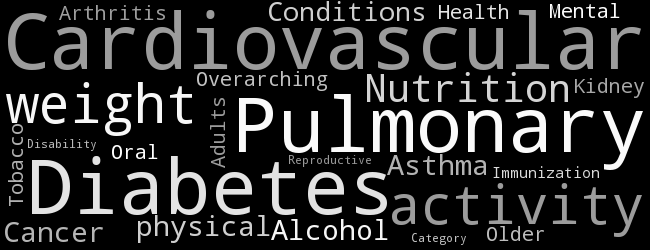
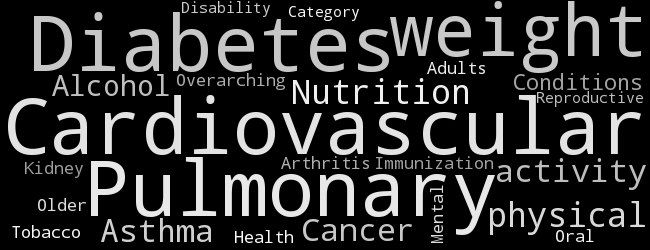
Fixed math for colerazation function

diff --git a/First.py b/First.py
@@ -1,130 +1,37 @@
-import csv
 import os
-#from scipy.misc import imread
-from wordcloud import WordCloud, STOPWORDS
-import matplotlib.pyplot as plt
-import random
 import webbrowser
-from PIL import Image
+import csv
 
+import Definitions as dfi
 
-dates=[]
-datesDict={}
-states=[]
-statesDict={}
-catagory=[]
-catagoryDict={}
+def main():
+    dates=[]
+    datesDict={}
+    states=[]
+    statesDict={}
+    catagory=[]
+    catagoryDict={}
 
-
-def grey_color_func(word, font_size, position, orientation, random_state=None, **kwargs):
-    return "hsl(0, 0%%, %d%%)" % random.randint(60, 100)
-
-
-STOPWORDS.add("chronic")
-STOPWORDS.add("disease")
-STOPWORDS.add("obstructive")
-STOPWORDS.add("status")
-#cloud1_coloring = imread(os.path.join(d, "CloudColor.png")).read()
-#sorts and adds and creates dict of catagories without duplicates
-def classify(origional, new):
-    origional = sorted([i.lower() for i in origional])
-    for i in range(2,len(origional)-1):
-        if origional[i] != origional[i-1] and origional[i] != "category" and origional[i] != "locationabbr":
-            new[origional[i]] = 0
-#counts amount of each catagory and adds number to corresponding list key
-def count(list, dict):
-    list = sorted([i.lower() for i in list])
-    leng = len(dict)
-    for i in list:
-        if i in dict:
-            dict[i] +=1
-
-classify(catagory, catagoryDict)
-classify(dates, datesDict)
-classify(states, statesDict)
-count(catagory, catagoryDict)
-count(dates, datesDict)
-count(states, statesDict)
-#end of organizing lists and dictionaries ######################################################
-
-#wordcloud stuff ##############################################################
-with open('U.S._Chronic_Disease_Indicators__CDI_.csv', newline='') as f:
-    reader = csv.reader(f)
-    for row in reader:
-        dates.append(row[0])
-        states.append(row[1])
-        catagory.append(row[3])
-
-##writes origional catagory list to text file
-d = os.path.dirname(__file__)
-file = open("catagory.txt", 'w')
-for item in catagory:
-    file.write("%s\n" % item)
-thefile = open(os.path.join(d, "catagory.txt")).read()
-
-# generate word cloud
-wordcloud = WordCloud(stopwords=STOPWORDS, background_color="black", width = 650, height = 250).generate_from_text(thefile)
-
-#### show wordcloud ####################
-wordcloud.recolor(color_func=grey_color_func, random_state=3)
-wordcloud.to_file("wordcloud.png")
-
-#End of wordcloud###################################################
-
-
-def convert(oldMin, oldMax, oldValue):
-    oldRange = (oldMax - oldMin)
-    newValue = (((oldValue - oldMin) * 255) / oldRange) + 0
-    return newValue
-
-def colorize(pixstart, pixend, domain, amounts, catagories):
-    local = {}
-    classify(catagories, local)
     with open('U.S._Chronic_Disease_Indicators__CDI_.csv', newline='') as f:
         reader = csv.reader(f)
         for row in reader:
-            if (row[1] == domain):
-                local[row[3].lower] += 1
+            dates.append(row[0])
+            states.append(row[1])
+            catagory.append(row[3])
 
-    for i in local:
-        print (i + ": " + str(local[i]))
+    dfi.classify(catagory, catagoryDict)
+    dfi.classify(dates, datesDict)
+    dfi.classify(states, statesDict)
+    dfi.count(catagory, catagoryDict)
+    dfi.count(dates, datesDict)
+    dfi.count(states, statesDict)
 
-    newList = []
-    for i in local:
-        newList.append(i)
 
-    oldMin = newList[0]
-    newMax = newList[0]
-    for i in newList:
-        if (i < oldMin):
-            oldMin = i
-        if (i > oldMax):
-            oldMax = i
+    dfi.wordcloud(catagory)
+    dfi.colorize("al", catagory)
 
-    convert(oldMin, oldMax, oldValue)
+    #opens html file
+    webbrowser.open("htmlthing.html")
 
-    rgb = (255,255,255)
-    res = (800,300)
-    newimage = Image.new("RGB",res,rgb)
-    newImageData = newimage.load()
-
-    for x in range(pixstart,pixend):
-        for y in range(0,300):
-            newImageData[x,y] = (255, int(num),int(num))
-    newimage.save("colortest.png")
-
-########################################
-
-#opens html file
-webbrowser.open("htmlthing.html")
-
-#prints info
-print ("")
-for i in catagoryDict:
-    print (i + ": " + str(catagoryDict[i]))
-print("")
-for i in statesDict:
-    print (i + ": " + str(statesDict[i]))
-print("")
-for i in datesDict:
-    print (i + ": " + str(datesDict[i]))
+if __name__ == "__main__":
+    main();

diff --git a/Definitions.py b/Definitions.py
@@ -1,0 +1,124 @@
+import csv
+import os
+#from scipy.misc import imread
+from wordcloud import WordCloud, STOPWORDS
+import matplotlib.pyplot as plt
+import random
+from PIL import Image
+
+
+#sorts, adds, and creates dict of catagories without duplicates
+def classify(origional, new):
+    origional = sorted([i.lower() for i in origional])
+    for i in range(2,len(origional)-1):
+        if origional[i] != origional[i-1] and origional[i] != "category" and origional[i] != "locationabbr":
+            new[origional[i]] = 0
+
+
+#counts amount of each catagory and adds number to corresponding list key
+def count(listi, dicti):
+    listi = sorted([i.lower() for i in listi])
+    leng = len(dicti)
+    for i in listi:
+        if i in dicti:
+            dicti[i] +=1
+
+
+#creates color pallette of wordcloud
+def grey_color_func(word, font_size, position, orientation, random_state=None, **kwargs):
+    return "hsl(0, 0%%, %d%%)" % random.randint(60, 100)
+
+
+#craetes wordcloud and saves it to an image
+def wordcloud(wordSource):
+    ##writes origional catagory list to text file
+    d = os.path.dirname(__file__)
+    file = open("catagory.txt", 'w')
+    for item in wordSource:
+        file.write("%s\n" % item)
+    thefile = open(os.path.join(d, "catagory.txt")).read()
+
+    #adds words to exclude
+    STOPWORDS.add("chronic")
+    STOPWORDS.add("disease")
+    STOPWORDS.add("obstructive")
+    STOPWORDS.add("status")
+
+    # generate word cloud
+    wordcloud = WordCloud(stopwords=STOPWORDS,
+        background_color="black",
+        width = 650,
+        height = 250).generate_from_text(thefile)
+
+    #re-colers and saves wordcloud as png
+    wordcloud.recolor(color_func=grey_color_func, random_state=3)
+    wordcloud.to_file("wordcloud.png")
+
+    #cloud1_coloring = imread(os.path.join(d, "CloudColor.png")).read()
+
+
+#converts numbers to range of 0-255 for rgb
+def convert(oldMin, oldMax, oldValue):
+    oldRange = (oldMax - oldMin)
+    newValue = (((oldValue - oldMin) * 255) / oldRange) + 0
+    return newValue
+
+
+#uses values from convert() to generate the hue of a specified colorize
+#saves to image
+def colorize(domain, catagories):
+    local = {}
+    newCats = []
+    with open('U.S._Chronic_Disease_Indicators__CDI_.csv', newline='') as f:
+        reader = csv.reader(f)
+        for row in reader:
+            if (row[1].lower() == str(domain)):
+                newCats.append(row[3].lower())
+    classify(newCats, local)
+    count(newCats, local)
+    """
+    local is to contain the frequency for catagory(such as diseases)
+    that apply to the
+    domain (such as a specific state).
+    """
+    #smiply checking
+    for i in local:
+        print (i + ": " + str(local[i]))
+
+    newList = [0]
+    for i in local:
+        newList.append(local[i])
+    print("newList")
+    print(newList)
+    #find min and max of data
+    oldMin = newList[0]
+    oldMax = newList[0]
+    for i in newList:
+        if (int(i) < oldMin):
+            oldMin = int(i)
+        if (int(i) > oldMax):
+            oldMax = int(i)
+    if oldMin == 0:
+        oldmin = 1
+
+    #use min and max to convert local's key values to rgb range
+    for i in local:
+        local[i] = int(convert(oldMin, oldMax, local[i]))
+
+    print (local)
+"""
+    rgb = (255,255,255)
+    res = (800,300)
+    newimage = Image.new("RGB",res,rgb)
+    newImageData = newimage.load()
+
+    for x in range(pixstart,pixend):
+        for y in range(0,300):
+            newImageData[x,y] = (255, int(num),int(num))
+    newimage.save("colortest.png")
+"""
+
+def printDict(Dict):
+    print("")
+    for i in Dict:
+        print (i + ": " + str(Dict[i]))
